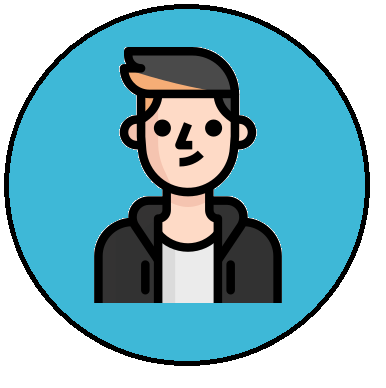
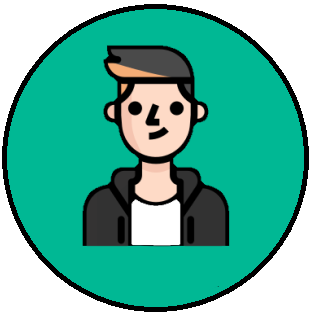
fix-ava

diff --git a/src/pages/style.css b/src/pages/style.css
@@ -4,7 +4,7 @@
 }
 
 .wrapper .image {
-  max-width: 150px;
+  max-width: 130px;
   margin: 0 auto;
   margin-bottom: 1.65rem;
   margin-top: 40px;
